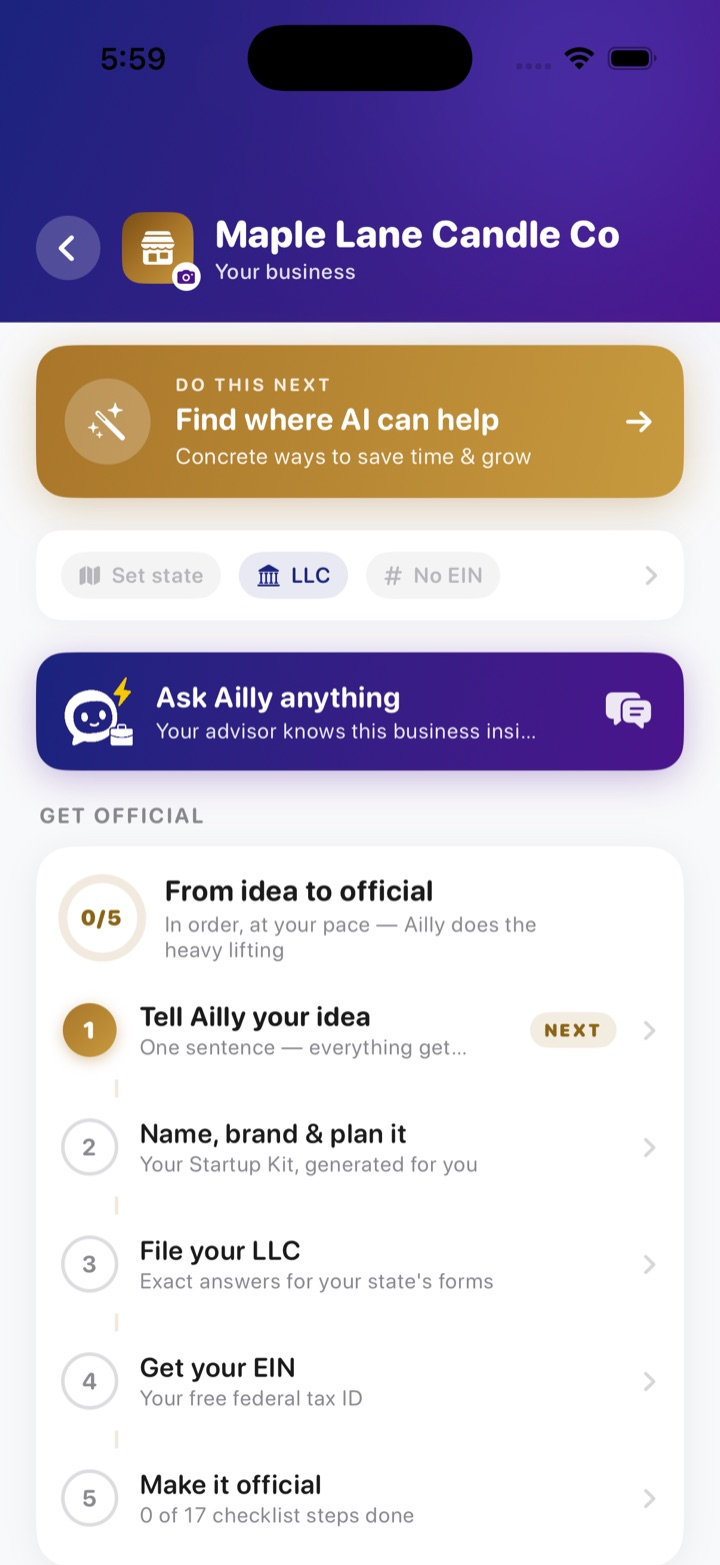
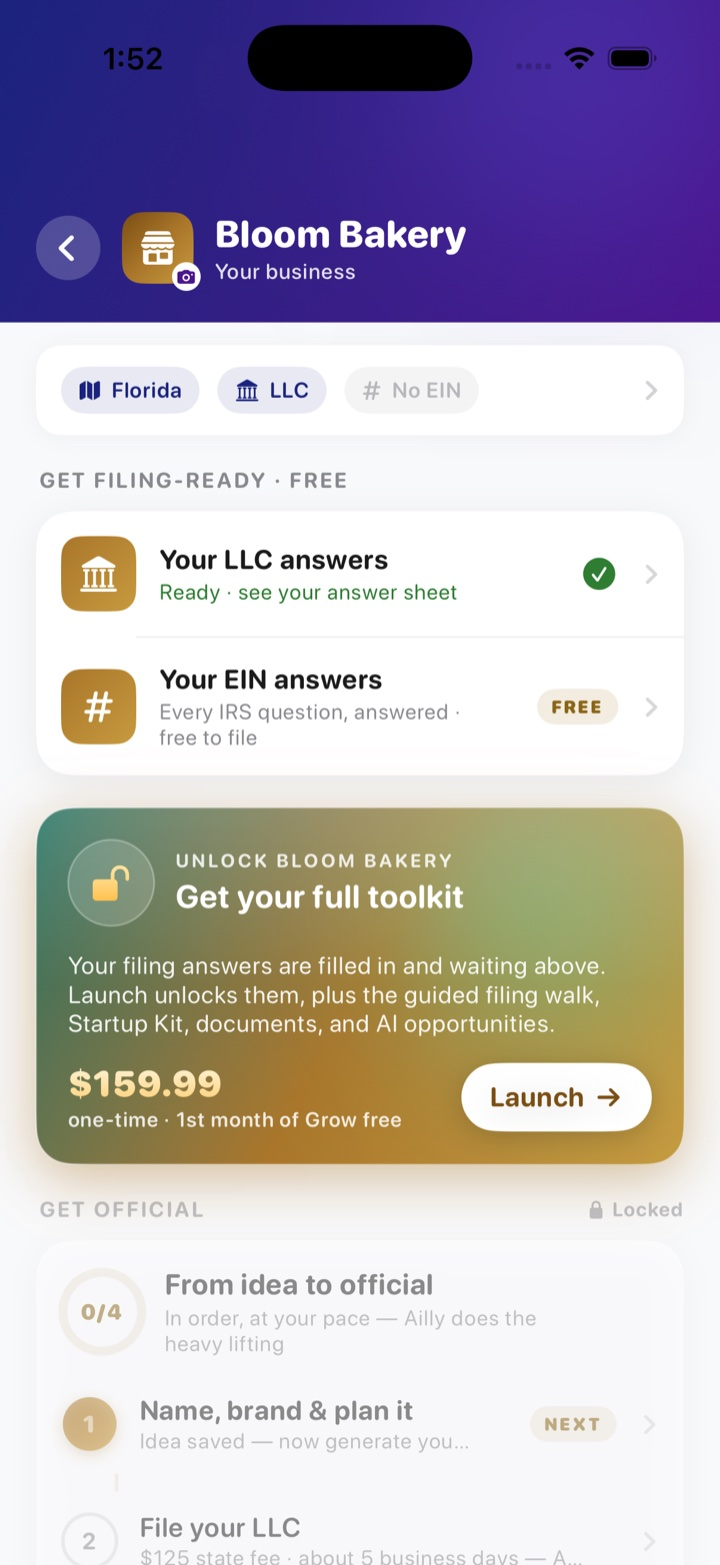
Reflect the new app funnel sitewide: plan + filing answers free, guided filing, no-traps pricing, Grow = compliance protection, Money retired from pitch; fresh cockpit + filing-answers screenshots; email fixes

diff --git a/business.html b/business.html
@@ -4,19 +4,19 @@
 <meta charset="utf-8">
 <meta name="viewport" content="width=device-width, initial-scale=1, viewport-fit=cover">
 <title>Ailly Business — From idea to official, with an AI ally</title>
-<meta name="description" content="Start with a free assessment and launch readiness score. Ailly Launch ($159.99 one-time) takes your business from idea to official — plan, name, LLC &amp; EIN filing packets, documents, invoices, and an AI business advisor.">
+<meta name="description" content="Free: your readiness score, your full game plan, and your LLC &amp; EIN answers filled in from your own details. Ailly Launch ($159.99 one-time) unlocks the guided filing walk, Startup Kit, documents, deadline protection, and your AI business advisor.">
 <link rel="canonical" href="https://aillyapp.com/business">
 <meta name="twitter:card" content="summary_large_image">
 <meta property="og:type" content="website">
 <meta property="og:title" content="Ailly Business — From idea to official, with an AI ally">
-<meta property="og:description" content="A free assessment, a launch readiness score, and everything you need to launch and grow a small business — in plain language.">
+<meta property="og:description" content="Your score, your full plan, and your filing answers, free. One price unlocks the guided filing walk and the whole toolkit. No renewal traps.">
 <meta property="og:url" content="https://aillyapp.com/business">
 <meta property="og:image" content="https://aillyapp.com/assets/og-image.png">
 <meta property="og:image:width" content="1200">
 <meta property="og:image:height" content="630">
 <meta property="og:image:alt" content="Ailly — Your AI Ally for Life and Business">
 <meta name="twitter:image" content="https://aillyapp.com/assets/og-image.png">
-<script type="application/ld+json">{"@context":"https://schema.org","@graph":[{"@type":"Organization","@id":"https://aillyapp.com/#org","name":"Ailly","url":"https://aillyapp.com/","logo":"https://aillyapp.com/assets/mascot.png","sameAs":["https://dreamwakelabs.com/"]},{"@type":"WebSite","@id":"https://aillyapp.com/#site","name":"Ailly","url":"https://aillyapp.com/","publisher":{"@id":"https://aillyapp.com/#org"}},{"@type":"WebPage","@id":"https://aillyapp.com/business","url":"https://aillyapp.com/business","name":"Ailly Business — From idea to official, with an AI ally","description":"Start with a free assessment and launch readiness score. Ailly Launch ($159.99 one-time) takes your business from idea to official — plan, name, LLC & EIN filing packets, documents, invoices, and an AI business advisor.","isPartOf":{"@id":"https://aillyapp.com/#site"},"publisher":{"@id":"https://aillyapp.com/#org"}}]}</script>
+<script type="application/ld+json">{"@context":"https://schema.org","@graph":[{"@type":"Organization","@id":"https://aillyapp.com/#org","name":"Ailly","url":"https://aillyapp.com/","logo":"https://aillyapp.com/assets/mascot.png","sameAs":["https://dreamwakelabs.com/"]},{"@type":"WebSite","@id":"https://aillyapp.com/#site","name":"Ailly","url":"https://aillyapp.com/","publisher":{"@id":"https://aillyapp.com/#org"}},{"@type":"WebPage","@id":"https://aillyapp.com/business","url":"https://aillyapp.com/business","name":"Ailly Business — From idea to official, with an AI ally","description":"Free: your readiness score, your full game plan, and your LLC & EIN answers filled in from your own details. Ailly Launch ($159.99 one-time) unlocks the guided filing walk, Startup Kit, documents, deadline protection, and your AI business advisor.","isPartOf":{"@id":"https://aillyapp.com/#site"},"publisher":{"@id":"https://aillyapp.com/#org"}}]}</script>
 <link rel="icon" type="image/svg+xml" href="/assets/favicon.svg">
 <link rel="preconnect" href="https://fonts.googleapis.com">
 <link rel="preconnect" href="https://fonts.gstatic.com" crossorigin>
@@ -52,7 +52,7 @@
     <div><span class="chip">Ailly Business</span></div>
     <h1>The business you keep thinking about? Let's make it real.</h1>
     <p class="hero-sub">Idea or already open, Ailly gives you a game plan, the paperwork answers, and a tireless AI advisor — all in one place.</p>
-    <div class="jobs" aria-hidden="false"><span style="cursor:default">✓ Free launch readiness score</span><span style="cursor:default">✓ Idea → official in 5 steps</span><span style="cursor:default">✓ Paperwork drafted for you</span></div>
+    <div class="jobs" aria-hidden="false"><span style="cursor:default">✓ Score &amp; full plan, free</span><span style="cursor:default">✓ Filing answers filled in free</span><span style="cursor:default">✓ One price, no renewal traps</span></div>
     <div class="hero-ctas">
       <!-- TEMP: swap to App Store link when live (see comment in index.html hero). -->
       <span class="store-badge">
@@ -83,7 +83,7 @@
     <div class="center">
       <p class="kicker kicker-gold">From idea to official</p>
       <h2>Idea → official, in five steps</h2>
-      <p class="lede">Start free with your launch readiness score. Then Ailly walks each step — and fills out your actual LLC and EIN forms into ready-to-file PDFs.</p>
+      <p class="lede">Your score, your full plan, and your filing answer sheet come free. Launch unlocks the answers and walks you through filing on your state's official site, box by box.</p>
     </div>
     <ol class="path">
       <li>
@@ -96,7 +96,7 @@
       </li>
       <li>
         <h3>Make it official</h3>
-        <p>LLC &amp; EIN filing packets — every box filled in, ready to file.</p>
+        <p>Every box on your state's LLC form and the free IRS EIN tool, answered from your details, with a guided walk to Submit.</p>
       </li>
       <li>
         <h3>Get the paperwork right</h3>
@@ -113,12 +113,12 @@
   <section class="chapter chapter-business chapter-xl">
     <div class="chapter-inner chapter-reverse">
       <div class="chapter-copy">
-        <p class="chapter-kicker">Get paid</p>
-        <h2>Money that runs itself.</h2>
-        <p class="chapter-lede">Send invoices, see who owes you at a glance, and let renewal reminders keep anything from lapsing — so the money side just works.</p>
+        <p class="chapter-kicker">The scary part, done for you</p>
+        <h2>Your filing answers, filled in before you pay a cent.</h2>
+        <p class="chapter-lede">A two-minute interview, and every box on your state's formation form has your answer waiting, with your state's real fee and filing site up front. One price unlocks the sheet and the walk to Submit.</p>
       </div>
       <div class="chapter-media">
-        <span class="phone"><img src="/assets/screens/money.jpg" alt="The Money screen with outstanding and collected invoice totals" loading="lazy"></span>
+        <span class="phone"><img src="/assets/screens/filing-answers.jpg" alt="The filing answer sheet: business name filled in, remaining answers locked until Launch" loading="lazy"></span>
       </div>
     </div>
   </section>
@@ -131,8 +131,8 @@
     <div class="grid grid-3" style="text-align:left">
       <div class="card">
         <div class="ico ico-gold"><svg viewBox="0 0 24 24" fill="none" stroke="currentColor" stroke-width="1.8" aria-hidden="true"><circle cx="12" cy="12" r="8"/><circle cx="12" cy="12" r="4"/><circle cx="12" cy="12" r="1" fill="currentColor"/></svg></div>
-        <h3>Full game plan</h3>
-        <p>Your assessment turned into a ranked, step-by-step plan.</p>
+        <h3>Guided LLC &amp; EIN filing</h3>
+        <p>Your prepared answers plus a step-by-step walk through the official sites.</p>
       </div>
       <div class="card">
         <div class="ico ico-gold"><svg viewBox="0 0 24 24" fill="none" stroke="currentColor" stroke-width="1.8" stroke-linejoin="round" aria-hidden="true"><path d="m12 3 8 4.5v9L12 21l-8-4.5v-9z"/><path d="m4 7.5 8 4.5 8-4.5M12 12v9"/></svg></div>
@@ -141,18 +141,18 @@
       </div>
       <div class="card">
         <div class="ico ico-gold"><svg viewBox="0 0 24 24" fill="none" stroke="currentColor" stroke-width="1.8" stroke-linecap="round" stroke-linejoin="round" aria-hidden="true"><path d="m3 9 9-6 9 6M4 9v10M20 9v10M8 12v4M12 12v4M16 12v4M2 21h20"/></svg></div>
-        <h3>LLC &amp; EIN filing packets</h3>
-        <p>Every box filled into a ready-to-file PDF — minutes, not evenings.</p>
+        <h3>Deadline protection</h3>
+        <p>Your state's real renewal dates, tracked with reminders, so a late fee never surprises you.</p>
       </div>
       <div class="card">
         <div class="ico ico-gold"><svg viewBox="0 0 24 24" fill="none" stroke="currentColor" stroke-width="1.8" stroke-linecap="round" stroke-linejoin="round" aria-hidden="true"><path d="M14 3H7a2 2 0 0 0-2 2v14a2 2 0 0 0 2 2h10a2 2 0 0 0 2-2V8z"/><path d="M14 3v5h5M9 13h6M9 17h6"/></svg></div>
         <h3>Documents</h3>
-        <p>Operating agreement, invoices, contracts — edit, send, done.</p>
+        <p>Operating agreement, contracts &amp; proposals, written with your real facts filled in.</p>
       </div>
       <div class="card">
         <div class="ico ico-gold"><svg viewBox="0 0 24 24" fill="none" stroke="currentColor" stroke-width="1.8" stroke-linecap="round" aria-hidden="true"><rect x="3" y="7" width="18" height="11" rx="2"/><circle cx="12" cy="12.5" r="2.6"/></svg></div>
-        <h3>Money</h3>
-        <p>Send invoices, see who owes you, and never miss a renewal.</p>
+        <h3>AI opportunities</h3>
+        <p>Concrete, tailored ways this business can use AI to save time and win customers.</p>
       </div>
       <div class="card">
         <div class="ico ico-gold"><svg viewBox="0 0 24 24" fill="none" stroke="currentColor" stroke-width="1.8" stroke-linecap="round" stroke-linejoin="round" aria-hidden="true"><path d="M21 12a8 8 0 0 1-8 8H4l2.5-2.5A8 8 0 1 1 21 12z"/></svg></div>
@@ -167,7 +167,7 @@
     <p class="stage-kicker">Ailly Launch</p>
     <div class="stage-num">$159.99</div>
     <h2>Once. That's the whole thing.</h2>
-    <p>No hourly fees, no lawyer-sized invoices. Launch your business and keep everything — even if you cancel Grow.</p>
+    <p>The big filing sites say "free", then bill about $199 every year to be your registered agent. Ailly makes YOU the agent for $0, charges once, and everything you make stays yours, even if you cancel Grow.</p>
   </section>
 
   <!-- PRICING -->
@@ -175,20 +175,20 @@
     <div class="center">
       <p class="kicker kicker-gold">Simple pricing</p>
       <h2>One price to launch. One small one to grow.</h2>
-      <p class="lede">No hourly fees, no lawyer-sized invoices. Launch once, then keep Ailly in your corner for less than a lunch a month.</p>
+      <p class="lede">Your score, plan, and filing answers are free. Launch once to unlock everything; keep Ailly in your corner for less than a lunch a month.</p>
     </div>
     <div class="grid grid-2">
       <div class="plan plan-business">
         <span class="plan-lane">Ailly Launch</span>
         <h3>From idea to official</h3>
         <p class="n">$159.99 <small>one-time, per business</small></p>
-        <p class="per">Everything above — game plan, Startup Kit, LLC &amp; EIN filing packets, documents, money tools, AI opportunities, and your business advisor.</p>
+        <p class="per">Everything above: your unlocked filing answers with the guided walk, Startup Kit, documents, deadline protection, AI opportunities, and your business advisor.</p>
         <ul>
-          <li>Full game plan &amp; Startup Kit</li>
-          <li>LLC &amp; EIN filing packets (PDF)</li>
-          <li>Operating agreement, invoices &amp; contracts</li>
-          <li>Money: invoices &amp; who-owes-you</li>
-          <li>Renewal reminders &amp; AI opportunities</li>
+          <li>Guided LLC &amp; EIN filing, answers unlocked</li>
+          <li>Startup Kit: name, brand, plan &amp; first customers</li>
+          <li>Operating agreement, contracts &amp; proposals</li>
+          <li>Deadline protection with reminders</li>
+          <li>AI opportunities, tailored to your business</li>
           <li>Business advisor chat</li>
           <li>First month of Ailly Grow included</li>
         </ul>
@@ -198,12 +198,13 @@
         <span class="plan-lane">Ailly Grow</span>
         <h3>Keep the momentum</h3>
         <p class="n">$19.99 <small>/ month after your first month</small></p>
-        <p class="per">Your first month is included with Launch. After that, Grow keeps your advisor sharp and your plan moving.</p>
+        <p class="per">Your first month is included with Launch. After that, Grow watches your deadlines and reads your months so nothing slips.</p>
         <ul>
+          <li>Compliance watched monthly: what's due, what's overdue</li>
+          <li>Your month, read for you: real numbers, next three priorities</li>
           <li>Weekly business check-ins</li>
-          <li>Fresh opportunities as your business changes</li>
-          <li>Ongoing advisor chat</li>
-          <li>Cancel anytime — no lock-in</li>
+          <li>Fresh AI opportunities as your business changes</li>
+          <li>Cancel anytime; everything you made stays yours</li>
         </ul>
         <p class="finePrint">Billed through the App Store. Cancel anytime in your device settings.</p>
       </div>
@@ -214,13 +215,13 @@
   <section class="section section-narrow section-tight">
     <p class="kicker kicker-gold">Already up and running?</p>
     <h2>Ailly works for existing businesses too</h2>
-    <p class="lede" style="margin-bottom:0">Take the free assessment and Ailly finds what you rarely have time to look for — hours hiding in repetitive work, paperwork gaps, invoices slipping through — then puts the same tools to work for you.</p>
+    <p class="lede" style="margin-bottom:0">Take the free assessment and Ailly finds what you rarely have time to look for — hours hiding in repetitive work, paperwork gaps, renewals sneaking up — then puts the same tools to work for you.</p>
   </section>
 
   <!-- CLOSING CTA -->
   <section class="cta-band">
     <h2>Your business, official — without the overwhelm</h2>
-    <p>Start with the free assessment. See your launch readiness score. Then launch when you're ready.</p>
+    <p>Your score, your plan, and your filing answers are free. Launch when you're ready.</p>
     <!-- TEMP: swap to App Store link when live. -->
     <span class="store-badge">
       <svg viewBox="0 0 384 512" aria-hidden="true" fill="currentColor"><path d="M318.7 268.7c-.2-36.7 16.4-64.4 50-84.8-18.8-26.9-47.2-41.7-84.7-44.6-35.5-2.7-74.3 20.7-88.5 20.7-15 0-49.4-19.7-76.4-19.7C63.3 141.2 4 184.8 4 273.5q0 39.3 14.4 81.2c12.8 36.7 59 126.7 107.2 125.2 25.2-.6 43-17.9 75.8-17.9 31.8 0 48.3 17.9 76.4 17.9 48.6-.7 90.4-82.5 102.6-119.3-65.2-30.7-61.7-90-61.7-91.9zm-56.6-164.2c27.3-32.4 24.8-61.9 24-72.5-24.1 1.4-52 16.4-67.9 34.9-17.5 19.8-27.8 44.3-25.6 71.9 26.1 2 49.9-11.4 69.5-34.3z"/></svg>

diff --git a/pricing.html b/pricing.html
@@ -77,15 +77,15 @@
         <h3>Launch + Grow</h3>
         <p class="plan-note">For new founders and small-business owners</p>
         <p class="n">$159.99 <small>one-time, per business</small></p>
-        <p class="per">Then Ailly Grow at <b>$19.99/mo</b> — your first month is included. The assessment and your launch readiness score are free.</p>
+        <p class="per">Then Ailly Grow at <b>$19.99/mo</b>; your first month is included. The assessment, your score, your full game plan, and your filing answer sheet are free.</p>
         <ul>
-          <li>Free assessment + launch readiness score</li>
-          <li>Full game plan &amp; Startup Kit</li>
-          <li>LLC &amp; EIN filing packets (PDF)</li>
-          <li>Operating agreement, invoices &amp; contracts</li>
-          <li>Money tools, renewals &amp; AI opportunities</li>
+          <li>Free: assessment, score, full game plan &amp; your filing answer sheet</li>
+          <li>Guided LLC &amp; EIN filing, answers unlocked with a walk to Submit</li>
+          <li>Startup Kit: name, brand, plan &amp; first customers</li>
+          <li>Operating agreement, contracts &amp; proposals</li>
+          <li>Deadline protection &amp; AI opportunities</li>
           <li>Business advisor chat</li>
-          <li>Grow: weekly check-ins + fresh opportunities, cancel anytime</li>
+          <li>Grow: compliance watched monthly + weekly check-ins, cancel anytime</li>
         </ul>
         <a class="btn btn-gold" href="/business">Explore Business</a>
         <p class="finePrint">Billed through the App Store. Launch is one-time — you keep everything even if you cancel Grow.</p>

diff --git a/index.html b/index.html
@@ -99,11 +99,11 @@
       <div class="chapter-copy">
         <p class="chapter-kicker">For your business</p>
         <h2>From idea to open for business.</h2>
-        <p class="chapter-lede">Name it, form the LLC, get your EIN, send your first invoice — Ailly walks every step in plain language, then helps you grow.</p>
+        <p class="chapter-lede">Your score, your plan, and your LLC &amp; EIN answers come free, filled in from your own details. Launch once and Ailly walks you through filing on the official site, then helps you grow.</p>
         <a class="chapter-cta" href="/business">See the launch path</a>
       </div>
       <div class="chapter-media">
-        <span class="phone"><img src="/assets/screens/launch-path.jpg" alt="A business cockpit showing the five-step path from idea to official" loading="lazy"></span>
+        <span class="phone"><img src="/assets/screens/launch-path.jpg" alt="A business cockpit showing the free filing path and the unlock card" loading="lazy"></span>
       </div>
     </div>
   </section>

diff --git a/ai-for-small-business-owners.html b/ai-for-small-business-owners.html
@@ -88,7 +88,7 @@
     </ul>
 
     <h2 style="margin-top:40px">And if the business doesn't exist yet…</h2>
-    <p>If you're still at the "idea in a notebook" stage, this is exactly what <a href="/business">Ailly Business</a> was built for: it walks you from idea to official — plan, name, LLC and EIN filing packets, documents, first invoice — in plain language, with an AI advisor that already knows your business. For the daily-skills side, start with <a href="/how-to-talk-to-ai">the prompt recipe</a> and the <a href="/ai-glossary">plain-English glossary</a>.</p>
+    <p>If you're still at the "idea in a notebook" stage, this is exactly what <a href="/business">Ailly Business</a> was built for: it walks you from idea to official in plain language: your plan and score free, your LLC and EIN answers filled in from your own details, real documents, and an AI advisor that already knows your business. For the daily-skills side, start with <a href="/how-to-talk-to-ai">the prompt recipe</a> and the <a href="/ai-glossary">plain-English glossary</a>.</p>
   </section>
 
   <section class="cta-band">